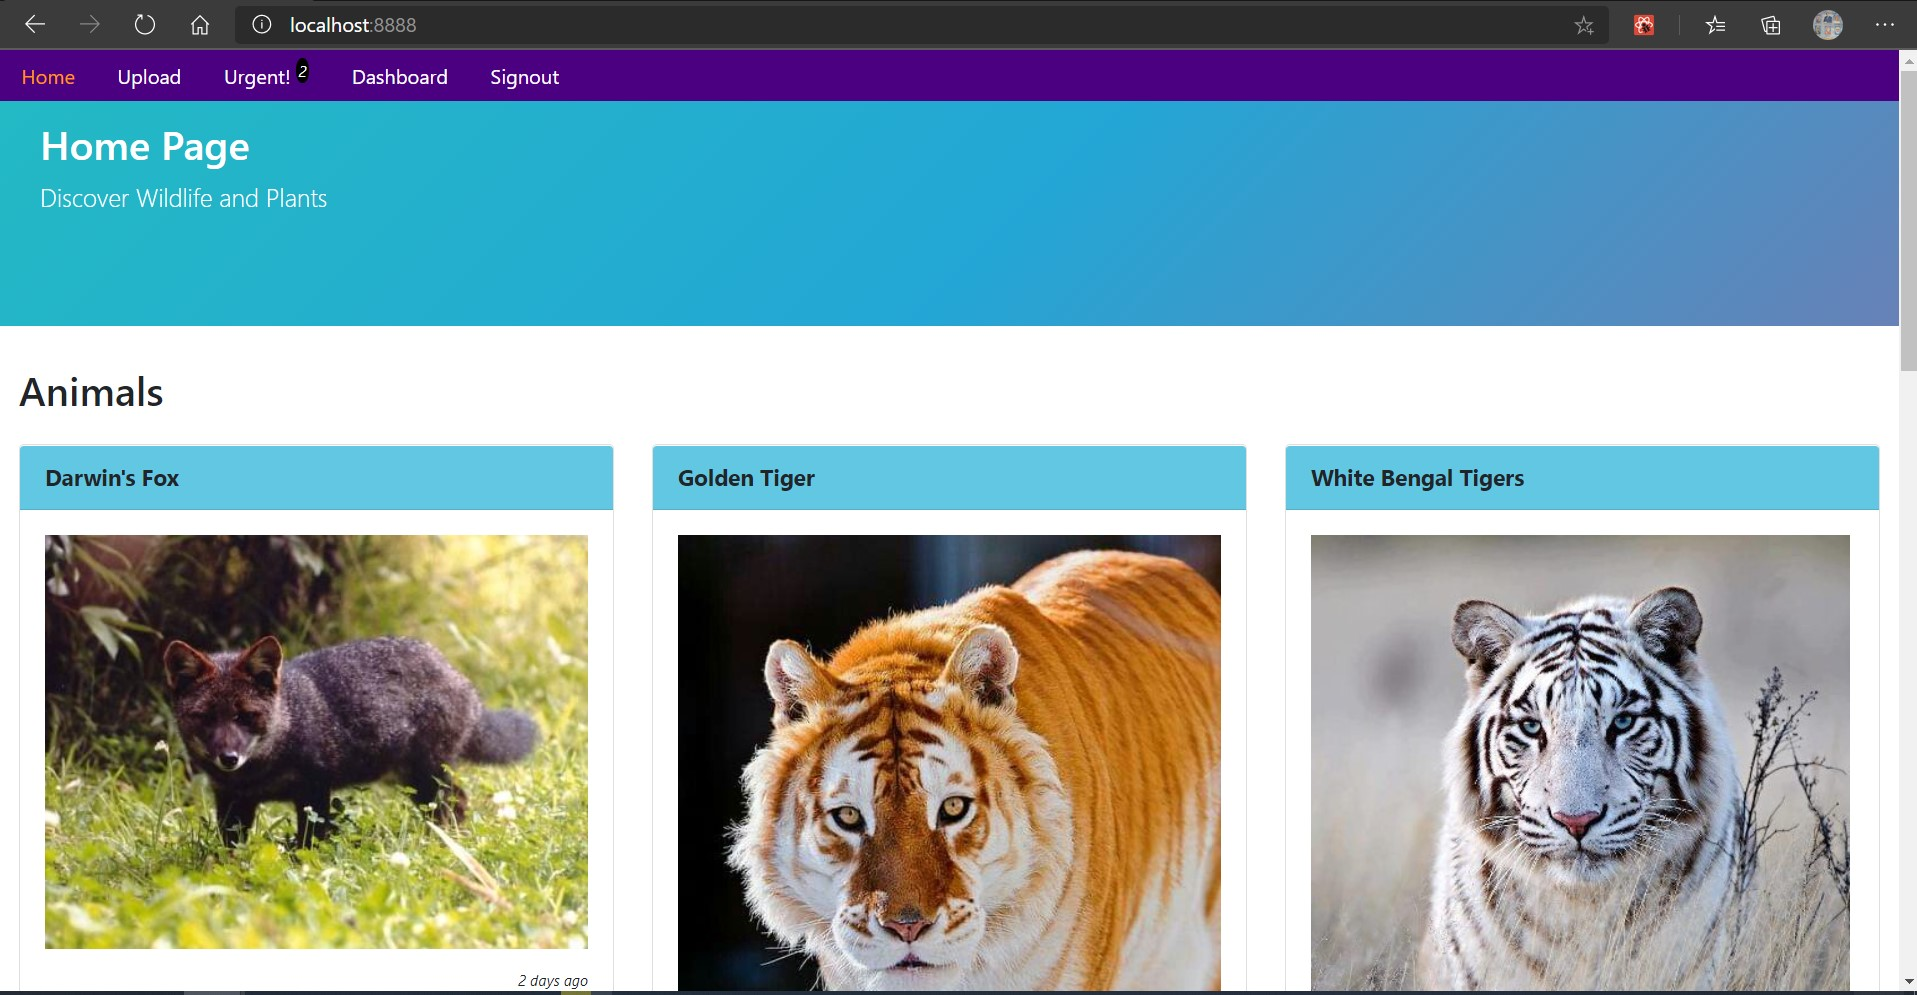
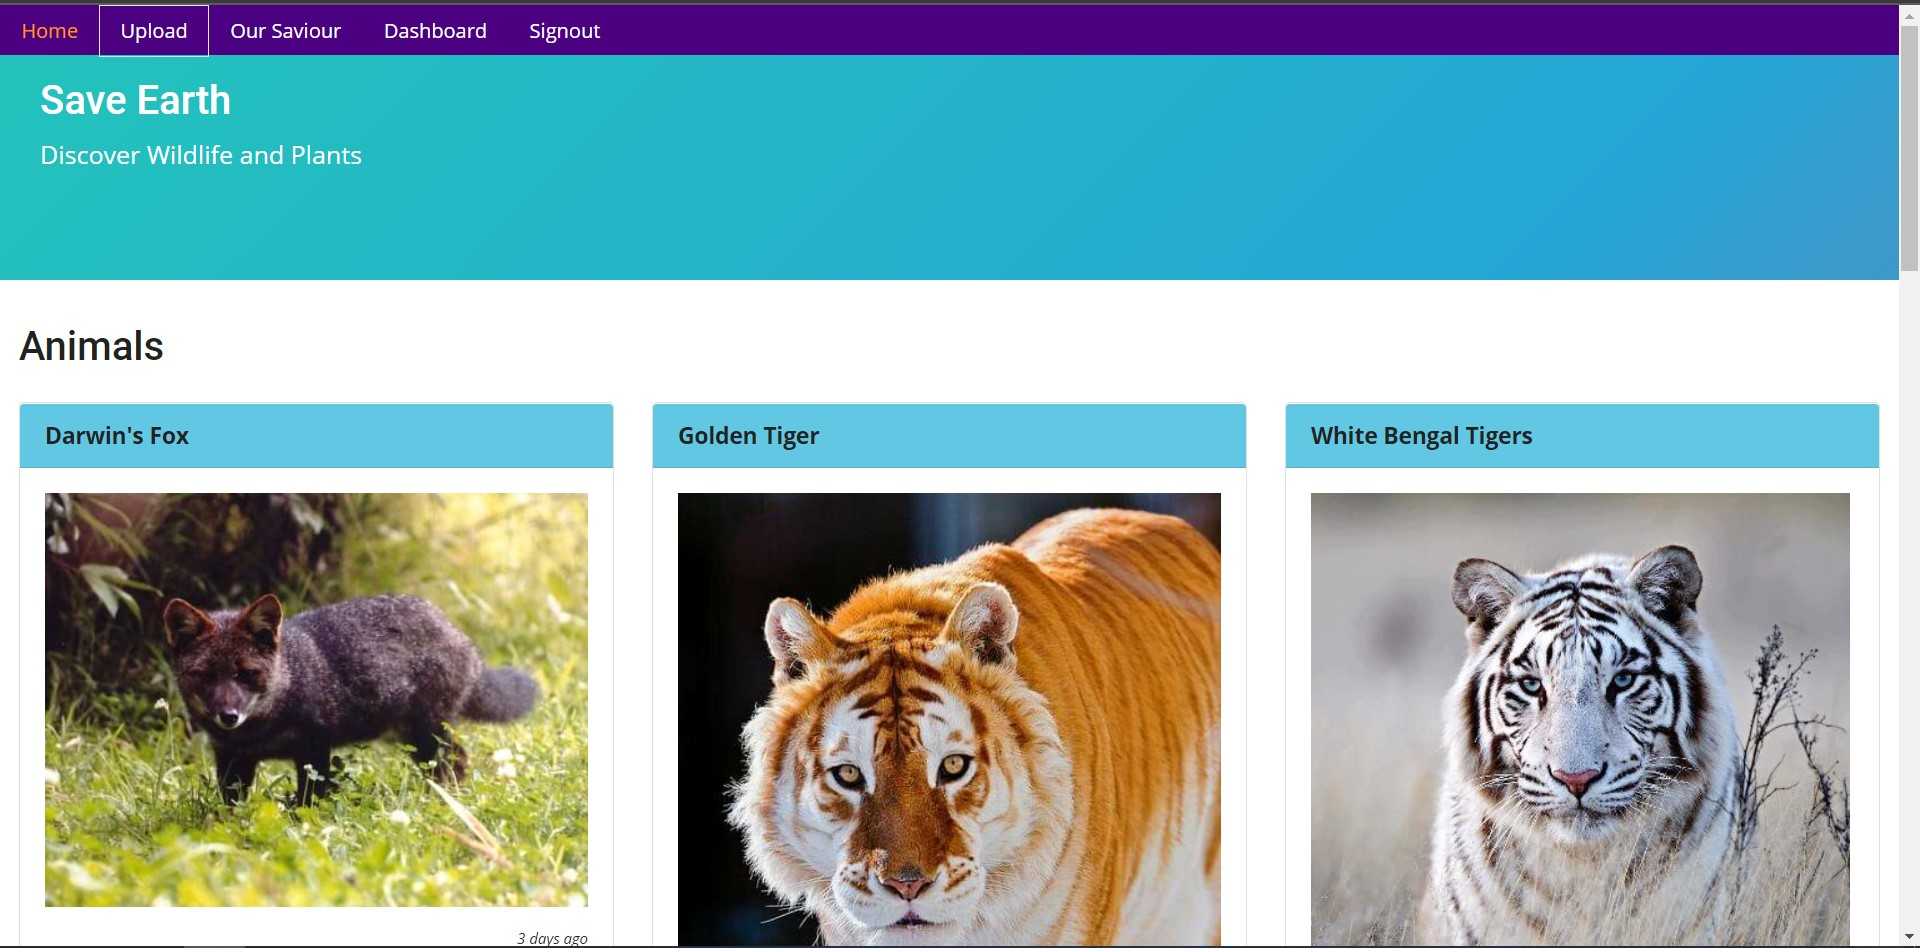
Made some UI changes

diff --git a/src/pages/Detail.js b/src/pages/Detail.js
@@ -57,7 +57,7 @@ const Detail = (props) => {
   useEffect(()=> {
     const detailID = props.match.params.detailId;
     loadSingleProduct(detailID)
-  }, [props])
+  }, [])
 
   let pos;
 
@@ -133,27 +133,29 @@ const Detail = (props) => {
         <div className="row faded">
           <div className="col-lg-6 col-xs-12 mb-3">
               { detail && detail.description && <Cardo detail={detail} />}
-              <span>
-                <button className="btn btn-disabled mr-5 mb-2 jumbotron">Select amount 👉</button>
-                <button onClick={() => setCount(count + 1)} className="btn btn-sm btn-outline-primary mr-2 mb-2">$1</button>
-                <button onClick={() => setCount(count + 5)} className="btn btn-sm btn-outline-info mr-2 mb-2">$5</button>
-                <button onClick={() => setCount(count + 20)} className="btn btn-outline-secondary mr-2 mb-2">$20</button>
-                <button onClick={() => setCount(count + 50)} className="btn btn-lg btn-outline-warning mr-2 mb-2">$50</button>
-                <button onClick={() => setCount(count + 100)} className="btn btn-lg btn-outline-danger mr-2 mb-2">$100</button>
-                <button onClick={() => setCount(0)} className="btn btn-lg btn-outline-danger mr-2 ml-5">Clear</button>
-              </span>
+              <div className="mt-4 ml-1">
+
+                { GoogleMap(detail.location) }
+              </div>
+              <div className="mb-5">
+                <br/> <hr/>
+                <button onClick={() => setMap(!map)} className="btn btn-lg btn-outline-danger mr-2 ml-2">Toggle Map</button>
+                <button onClick={() => setLatLng(!latlng)} className="btn btn-lg btn-outline-success mr-2 ml-5">Use {`${latlng ? 'Coordinates':'Given Address'}`}</button>
+              </div>
           </div>
 
           <div className="col-lg-6 col-xs-12">
-            <h2 className="mb-3">Donation is Here 👇</h2>
-            <Checkout amount={count} />
+            <span>
+              <button className="btn btn-disabled mr-5 mb-2 jumbotron" style={{height: "50px"}}>Add amount to donate 👉</button>
+              <button onClick={() => setCount(count + 1)} className="btn btn-sm btn-outline-primary mr-2 mb-2">$1</button>
+              <button onClick={() => setCount(count + 5)} className="btn btn-sm btn-outline-info mr-2 mb-2">$5</button>
+              <button onClick={() => setCount(count + 20)} className="btn btn-outline-secondary mr-2 mb-2">$20</button>
+              <button onClick={() => setCount(count + 50)} className="btn btn-lg btn-outline-warning mr-2 mb-2">$50</button>
+              <button onClick={() => setCount(count + 100)} className="btn btn-lg btn-outline-danger mr-2 mb-2">$100</button>
+              <button onClick={() => setCount(0)} className="btn btn-lg btn-outline-danger mr-2 ml-5">Clear</button>
+            </span>
             <hr/><br/>
-            { GoogleMap(detail.location) }
-            <div>
-              <br/> <hr/>
-              <button onClick={() => setMap(!map)} className="btn btn-lg btn-outline-danger mr-2 ml-2 mb-5">Toggle Map</button>
-              <button onClick={() => setLatLng(!latlng)} className="btn btn-lg btn-outline-success mr-2 ml-5 mb-5">Use {`${latlng ? 'Coordinates':'Given Address'}`}</button>
-            </div>
+            <Checkout amount={count} />
             <DisqusBox detail={detail} />
           </div>
         </div>

diff --git a/src/apis.js b/src/apis.js
@@ -13,19 +13,6 @@ export const posts = async() => {
   return response;
 }
 
-export const addData = async(bodyFormData) => {
-  await fetch('/.netlify/functions/addData', {
-    method: 'POST',
-    headers: {
-      Accept: "application/json"
-    },
-    body: JSON.stringify(bodyFormData)
-    })
-    .then((result) => console.log(JSON.stringify(bodyFormData)))
-    .catch((error) => console.error(error));
-
-}
-
 export const getBraintreeClientToken = (userId, token) => {
   return fetch(`${API}/braintree/getToken/${userId}`, {
     method: "GET",

diff --git a/src/App.css b/src/App.css
@@ -65,12 +65,13 @@
 }
 
 .jumbotron h2 {
-    margin-top: -49px;
+    margin-top: -30px;
+    height: auto;
 }
 
 @media only screen and (max-width: 600px) {
     .jumbotron h2 {
-        margin-top: 10px;
+        margin-top: 0px;
     }
 }
 
@@ -79,7 +80,7 @@
  */
 
 .jumbotron {
-    height: 180px;
+    height: 200px;
     color: #fff;
     background: linear-gradient(-45deg, #ee7752, #e73c7e, #23a6d5, #23d5ab);
     background-size: 400% 400%;

diff --git a/src/pages/DisqusBox.js b/src/pages/DisqusBox.js
@@ -3,11 +3,10 @@ import Disqus from "disqus-react"
 const DisqusBox = ({detail}) => {
   const disqusShortname = "discoveringearth"
   const disqusConfig = {
-    url: `http://localhost:8888/detail/${detail.id}`,
-    identifier: detail.id,
+    url: `http://localhost:8888/detail/${detail.created_at}`,
+    identifier: detail.created_at,
     title: detail.name
   }
-
 
   return (
     <div className="mb-1">

diff --git a/src/pages/Home.js b/src/pages/Home.js
@@ -49,7 +49,7 @@ const Home = () => {
   }, [])
 
   return (
-    <Layout title="Home Page" description="Discover Wildlife and Plants" className="container-fluid">
+    <Layout title="Save Earth" description="Discover Wildlife and Plants" className="container-fluid">
       <h2 className="mb-4">Animals</h2>
       <div className="row">
         { animal.map((d, i) => (

diff --git a/functions/addData.js b/functions/addData.js
@@ -20,8 +20,7 @@ exports.handler = async function (event, context, callback) {
       .namespace(process.env.ASTRA_DB_KEYSPACE)
       .collection(collection)
 
-      const body = JSON.parse(event.body)
-      console.log("email", body.email);
+    const body = JSON.parse(event.body)
 
     const data = {
       id: myuuid,

diff --git a/functions/thanks.js b/functions/thanks.js
@@ -20,7 +20,7 @@ exports.handler = async function (event, context, callback) {
         .collection(collection)
 
         const body = JSON.parse(event.body)
-        console.log('body', body);
+
         const data = {
           id: myuuid,
           username: body.username,

diff --git a/src/auth/Manage.js b/src/auth/Manage.js
@@ -12,7 +12,7 @@ const ManageProducts = () => {
   const loadProducts = () => {
     axios.get('/.netlify/functions/posts')
     .then(response => {
-      console.log(response.data)
+
       setHistory(response.data)
     })
     .catch(error => console.error(error))

diff --git a/src/pages/Saviour.js b/src/pages/Saviour.js
@@ -8,7 +8,6 @@ const Saviour = () => {
   const loadProducts = () => {
     axios.get('/.netlify/functions/getThanks')
     .then(response => {
-      console.log(response.data)
       setHistory(response.data)
     })
     .catch(error => console.error(error))

diff --git a/src/pages/Checkout.js b/src/pages/Checkout.js
@@ -7,7 +7,7 @@ import DropIn from "braintree-web-drop-in-react";
 import axios from 'axios';
 
 const Checkout = ({amount}) => {
-  console.log(amount);
+
   const [data, setData] = useState({
     success: false,
     clientToken: null,

diff --git a/functions/deletePost.js b/functions/deletePost.js
@@ -18,7 +18,7 @@ exports.handler = async (event, context, callback) => {
     const id = event.body
 
     try {
-        console.log(id)
+
         var res = await posts.delete(id)
 
         res = JSON.stringify(res)
